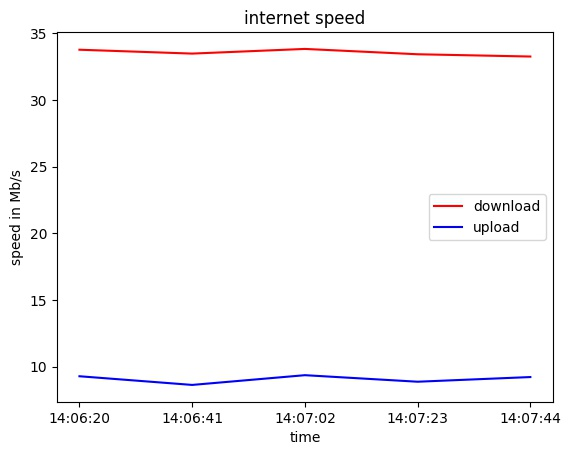
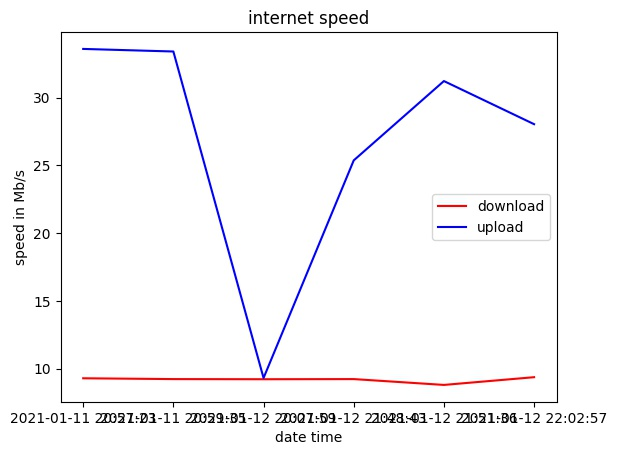
restructured; updated graph to read from sqlite

diff --git a/src/graph.py b/src/graph.py
@@ -1,0 +1,38 @@
+import matplotlib.pyplot as plt
+import matplotlib.ticker as ticker
+import click
+import sqlite3
+import os
+
+__location__ = os.path.realpath(os.path.join(os.getcwd(), os.path.dirname(__file__)))
+
+conn = sqlite3.connect(os.path.join(__location__, "../data/speedlog.db"))
+c = conn.cursor()
+
+@click.command()
+def graph():
+    """ Print a graph of internet speeds """
+    times = []
+    download = []
+    upload = []
+
+    c.execute("SELECT * FROM speed")
+    data = c.fetchall()
+
+    for d in data:
+        print(f"date: {d[1]}, up: {d[2]}, down: {d[3]}")
+        times.append(str(d[1]))
+        download.append(float(d[2]))
+        upload.append(float(d[3]))
+
+        plt.figure()
+        plt.plot(times, download, label='download', color='r')
+        plt.plot(times, upload, label='upload', color='b')
+        plt.xlabel("date time")
+        plt.ylabel("speed in Mb/s")
+        plt.title("internet speed")
+        plt.legend()
+        plt.savefig("test_graph.jpg", bbox_inches='tight')
+
+if __name__ == "__main__":
+    graph()

diff --git a/src/monitor.py b/src/monitor.py
@@ -1,0 +1,35 @@
+import speedtest
+import datetime
+import sqlite3
+import os
+import click
+
+__location__ = os.path.realpath(os.path.join(os.getcwd(), os.path.dirname(__file__)))
+
+conn = sqlite3.connect(os.path.join(__location__, "../data/speedlog.db"))
+c = conn.cursor()
+
+@click.command()
+def record():
+    """ Record upload and download speed to sqlite """
+    downspeed = 0.0
+    upspeed = 0.0
+    try:
+        s = speedtest.Speedtest()
+        time = datetime.datetime.now().strftime("%Y-%m-%d %H:%M:%S")
+        downspeed = round((round(s.download()) / 1048576), 2)
+        upspeed = round((round(s.upload()) / 1048576), 2)
+        print(f"time: {time}, downspeed: {downspeed} Mb/s, upspeed: {upspeed} Mb/s")
+    except:
+        pass
+
+
+    try:
+        sql = "INSERT INTO speed (up, down) VALUES (?, ?)"
+        c.execute(sql, (upspeed, downspeed))
+        conn.commit()
+    except:
+        pass
+
+if __name__ == "__main__":
+    record()
